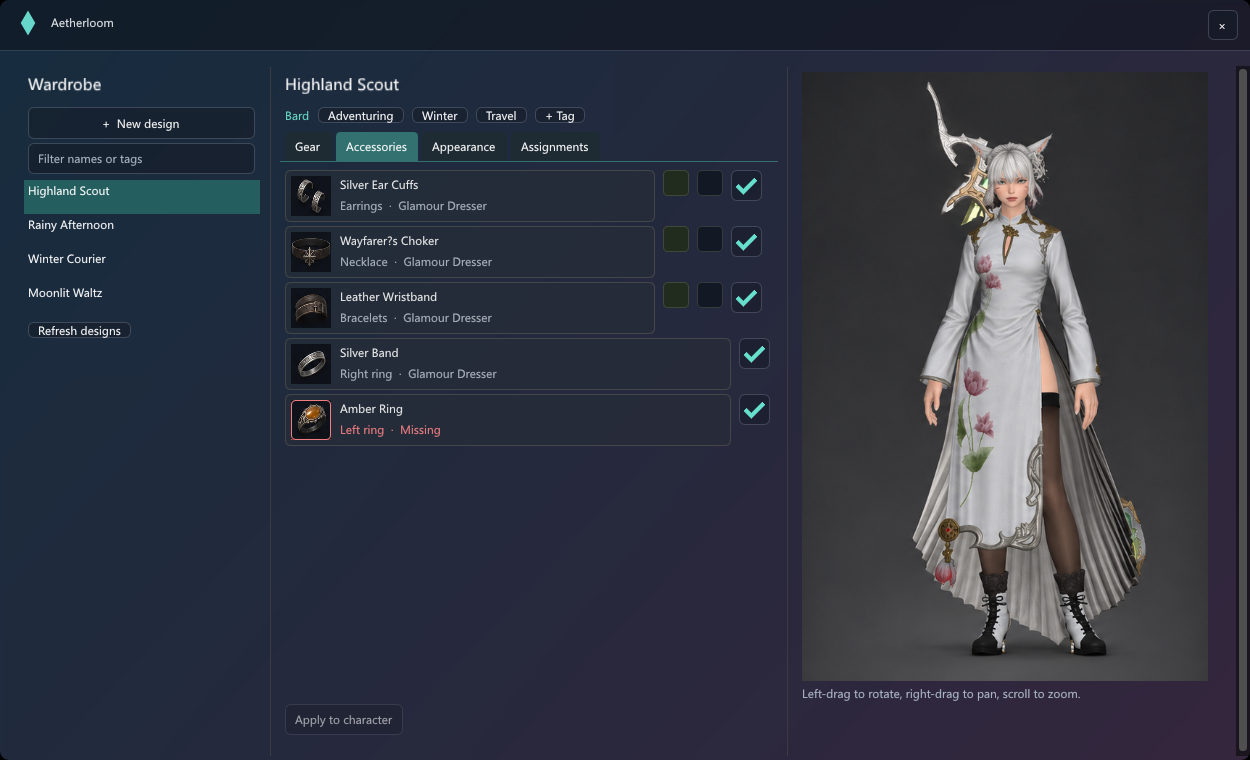
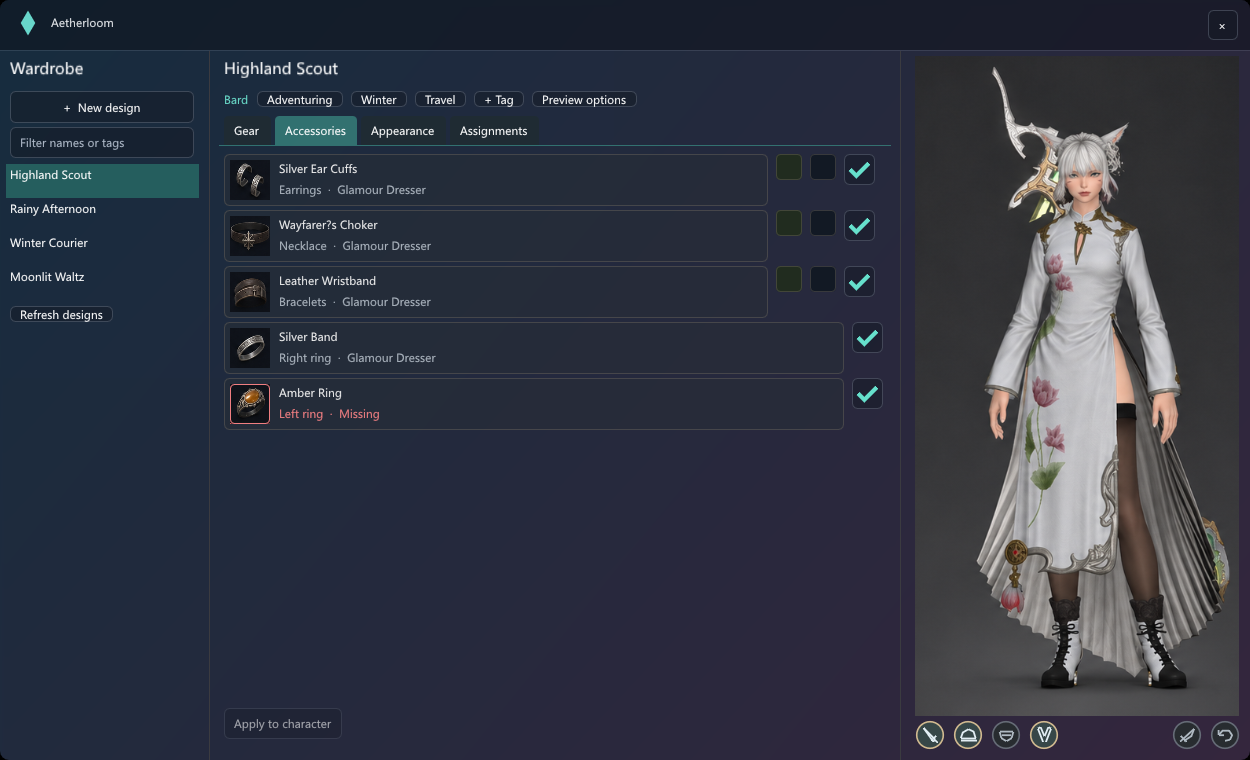
Render fixed-width wardrobe panes and full-height portrait controls

diff --git a/Library/WorkspaceControls.cs b/Library/WorkspaceControls.cs
@@ -3,7 +3,7 @@ using Dalamud.Bindings.ImGui;
 
 namespace AetherglassUI;
 
-public readonly record struct Pane(string Id, float Weight, Action Draw);
+public readonly record struct Pane(string Id, float Weight, Action Draw, bool FixedWidth=false);
 public readonly record struct Picture(ImTextureID Texture, Vector2 Uv0, Vector2 Uv1)
 {
     public Picture(ImTextureID texture) : this(texture, Vector2.Zero, Vector2.One) { }
@@ -22,7 +22,7 @@ public static class WorkspaceControls
         if (!ImGui.BeginTable(id, panes.Length, ImGuiTableFlags.SizingStretchProp | ImGuiTableFlags.BordersInnerV)) return;
         try
         {
-            foreach (var pane in panes) ImGui.TableSetupColumn(pane.Id, ImGuiTableColumnFlags.WidthStretch, pane.Weight);
+            foreach (var pane in panes) ImGui.TableSetupColumn(pane.Id, pane.FixedWidth?ImGuiTableColumnFlags.WidthFixed:ImGuiTableColumnFlags.WidthStretch, pane.FixedWidth?pane.Weight*Scale:pane.Weight);
             ImGui.TableNextRow();
             foreach (var pane in panes)
             {
@@ -65,7 +65,27 @@ public static class WorkspaceControls
         float radius=round?size.X/2:4*Scale;
         dl.AddRectFilled(p,p+size,rgba,radius);
         dl.AddRect(p,p+size,selected?Accent:Border,radius,ImDrawFlags.None,selected?3:1);
+        if(selected && side>=22)
+        {
+            var ink=((rgba&255)*299+((rgba>>8)&255)*587+((rgba>>16)&255)*114)>145000?0xff202022u:0xfffafafau;
+            dl.AddLine(p+size*.28f,p+new Vector2(size.X*.44f,size.Y*.62f),ink,2*Scale);
+            dl.AddLine(p+new Vector2(size.X*.44f,size.Y*.62f),p+new Vector2(size.X*.75f,size.Y*.32f),ink,2*Scale);
+        }
         if(ImGui.IsItemHovered()) ImGui.SetTooltip(label);
+        return clicked;
+    }
+
+    public static bool RoundAction(string label,bool active,Action<ImDrawListPtr,Vector2,float,uint> glyph)
+    {
+        var side=30*Scale;
+        var p=ImGui.GetCursorScreenPos();
+        bool clicked=ImGui.InvisibleButton(label,new Vector2(side));
+        var center=p+new Vector2(side/2);
+        var dl=ImGui.GetWindowDrawList();
+        dl.AddCircleFilled(center,side*.46f,active?0xff484737u:0xff302c28u);
+        dl.AddCircle(center,side*.46f,ImGui.IsItemHovered()?0xffe7dfbeu:active?0xff90bad2u:0xff776c66u,32,1.6f*Scale);
+        glyph(dl,center,side,active?0xfff4eee3u:0xffc2b9afu);
+        if(ImGui.IsItemHovered())ImGui.SetTooltip(label);
         return clicked;
     }
 
@@ -94,6 +114,20 @@ public static class WorkspaceControls
         ImGui.GetWindowDrawList().AddRect(p,p+size,selected?Accent:Border,4,ImDrawFlags.None,selected?2:1);
         if(ImGui.IsItemHovered()) ImGui.SetTooltip(label);
         return clicked;
+    }
+
+    // Preserve proportions while filling the pane. Report the uncropped bounds for backdrop sampling.
+    public static void FillViewport(string id,Picture picture,float aspect,Action<Vector2,Vector2> input)
+    {
+        var size=ImGui.GetContentRegionAvail();
+        if(size.X<1 || size.Y<1 || aspect<=0)return;
+        var full=new Vector2(Math.Max(size.X,size.Y*aspect),Math.Max(size.Y,size.X/aspect));
+        var inset=(full-size)/2;
+        var uv=(picture.Uv1-picture.Uv0)*inset/full;
+        var origin=ImGui.GetCursorScreenPos();
+        ImGui.InvisibleButton(id,size,ImGuiButtonFlags.MouseButtonLeft|ImGuiButtonFlags.MouseButtonRight);
+        new Picture(picture.Texture,picture.Uv0+uv,picture.Uv1-uv).Paint(origin,origin+size);
+        input(origin-inset,origin+size+inset);
     }
 
     public static void Viewport(string id,Picture picture,float aspect,Action input,float reservedHeight=0)

diff --git a/Library/WindowShell.cs b/Library/WindowShell.cs
@@ -30,14 +30,20 @@ public sealed class WindowShell
         {
             var vertex = vertices[i];
             var uv = Vector2.Clamp((vertex.Pos - origin) / size, Vector2.Zero, Vector2.One);
-            var top = Vector3.Lerp(new(22,45,63), new(42,41,62), uv.X);
-            var bottom = Vector3.Lerp(new(33,43,62), new(53,38,61), uv.X);
-            var rgb = Vector3.Lerp(top, bottom, uv.Y);
+            var rgb = BackdropColor(uv);
             vertex.Col = (vertex.Col & 0xff000000) | (uint)rgb.X | ((uint)rgb.Y << 8) | ((uint)rgb.Z << 16);
             vertices[i] = vertex;
         }
     }
 
+    public static Vector3 BackdropColor(Vector2 uv)
+    {
+        var top = Vector3.Lerp(new(22,45,63), new(42,41,62), uv.X);
+        var bottom = Vector3.Lerp(new(33,43,62), new(53,38,61), uv.X);
+        return Vector3.Lerp(top, bottom, uv.Y);
+    }
+
+    public bool EdgeToEdgeBody { get; set; }
     public bool ShowIconRail { get; set; } = true;
     public bool ShowPageHeading { get; set; } = true;
     public Action? Close {get;set;}
@@ -138,10 +144,10 @@ public sealed class WindowShell
             Selected=active.Id;
             var current = subpages.Count == 0 ? active : subpages[^1];
             var bodyId = active.Id + string.Concat(subpages.Select(page => "/" + page.Id));
-            float pad=(size.X<410*scale?9:18)*scale;
-            ImGui.SetCursorScreenPos(p+new Vector2(railWidth,header+(size.X<=410*scale?12:16)*scale));
+            float pad=EdgeToEdgeBody?0:(size.X<410*scale?9:18)*scale;
+            ImGui.SetCursorScreenPos(p+new Vector2(railWidth,header+(EdgeToEdgeBody?0:size.X<=410*scale?12:16)*scale));
             ImGui.PushStyleVar(ImGuiStyleVar.WindowPadding,new Vector2(pad,0));
-            bool body=ImGui.BeginChild("Workspace###"+bodyId,new Vector2(Math.Max(1,size.X-railWidth),Math.Max(1,bodyHeight-20*scale)),false,ImGuiWindowFlags.AlwaysUseWindowPadding);
+            bool body=ImGui.BeginChild("Workspace###"+bodyId,new Vector2(Math.Max(1,size.X-railWidth),Math.Max(1,bodyHeight-(EdgeToEdgeBody?0:20*scale))),false,ImGuiWindowFlags.AlwaysUseWindowPadding|(EdgeToEdgeBody?ImGuiWindowFlags.NoScrollbar|ImGuiWindowFlags.NoScrollWithMouse:0));
             ImGui.PopStyleVar();
             try
             {

diff --git a/WardrobePreview/WardrobeFixture.cs b/WardrobePreview/WardrobeFixture.cs
@@ -78,9 +78,14 @@ internal sealed class WardrobeFixture:IWardrobe
     public void Assign(string type,uint id,bool enable){if(enable)assigned[type].Add(id);else assigned[type].Remove(id);}
     public ISet<byte> FavoriteDyes{get;}=new HashSet<byte>{5,11,14,21,32};
     public void ToggleFavorite(byte id){if(!FavoriteDyes.Remove(id))FavoriteDyes.Add(id);}
+    private readonly HashSet<string> display=["Weapon","Hat","VieraEars"];
+    public bool DisplayOption(string key)=>display.Contains(key);
+    public void ToggleDisplay(string key){if(!display.Remove(key))display.Add(key);}
+    public void ResetCamera(){}
+    public void PreviewOptions(){}
     public void DrawPreview(){
         uint id=Layout.Tab switch{"Appearance"=>101u,"Accessories"=>102u,_=>100u};
-        WorkspaceControls.Viewport("preview",art[id],id==102?2f/3:.735f,()=>{},30);
-        ImGui.TextDisabled("Left-drag to rotate, right-drag to pan, scroll to zoom.");
+        float aspect=id==102?2f/3:.735f;
+        WorkspaceControls.FillViewport("preview",art[id],aspect,(_,_)=>{});
     }
 }

diff --git a/WardrobePreview/Program.cs b/WardrobePreview/Program.cs
@@ -24,7 +24,7 @@ internal sealed class RenderForm(string? scene,string? output):Form
     private readonly System.Windows.Forms.Timer timer=new(){Interval=25};
     protected override unsafe void OnLoad(EventArgs e)
     {
-        base.OnLoad(e); Text="AetherglassUI · Aetherloom";ClientSize=new(1250,760);
+        base.OnLoad(e); Text="AetherglassUI · Aetherloom";ClientSize=new(int.TryParse(Environment.GetEnvironmentVariable("WARDROBE_PREVIEW_WIDTH"),out var width)?width:1250,760);
         SetStyle(ControlStyles.UserPaint|ControlStyles.Opaque|ControlStyles.AllPaintingInWmPaint,true);
         ImGui.CreateContext();var io=ImGui.GetIO();io.IniFilename=null;
         io.Fonts.AddFontFromFileTTF(Path.Combine(Environment.GetFolderPath(Environment.SpecialFolder.Fonts),"segoeui.ttf"),16);

diff --git a/WardrobePreview/README.md b/WardrobePreview/README.md
@@ -7,3 +7,4 @@ This Windows preview renders Aetherloom’s WardrobeLayout with AetherglassUI co
 Scenes are gear, accessories, appearance, items, dye, hair, paint, and assignments. Omit the output path to explore the window. The layout, popups and shell are real ImGui controls. The desktop fixture supplies sample inventory and static character and item art from the approved mockups. The game supplies character rendering, game icons, item availability and catalog data.
 
 The renders folder contains captures at 1250 × 760. Original design references live under docs/wardrobe in Aetherloom.
+Set WARDROBE_PREVIEW_WIDTH to change the capture width. The gear-wide capture uses 1500 pixels for comparison with the default 1250 pixels.
